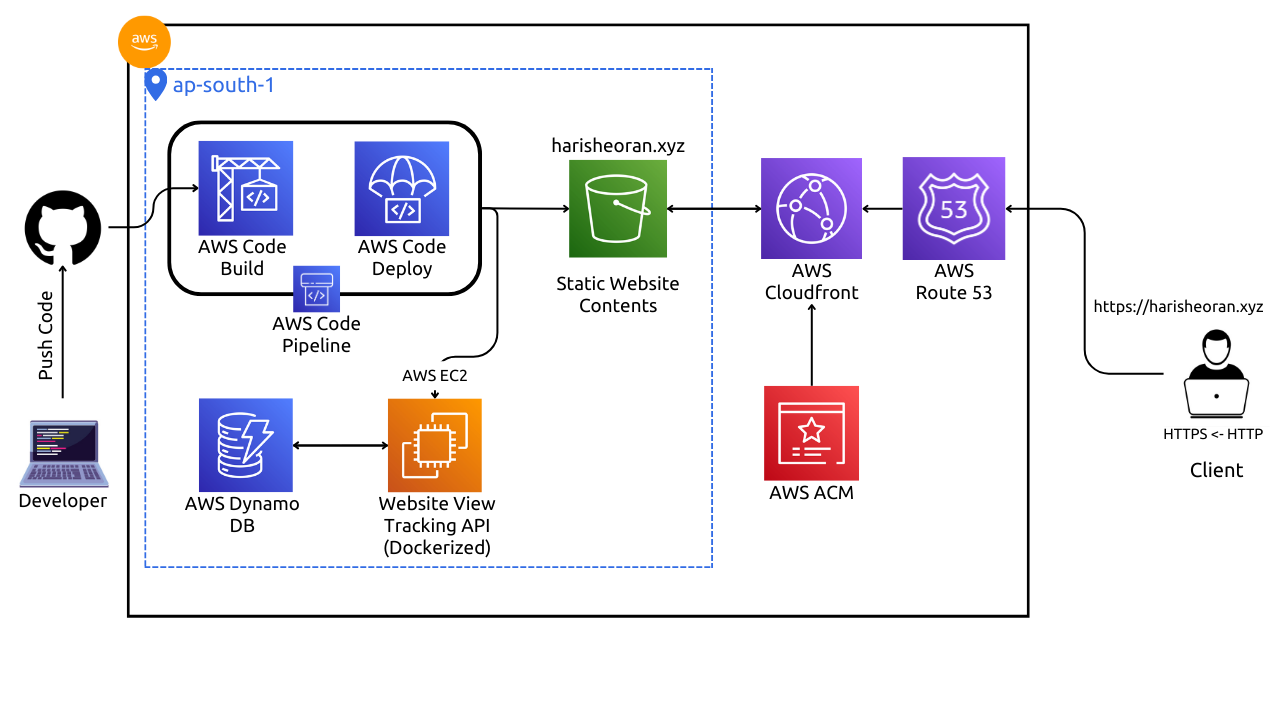
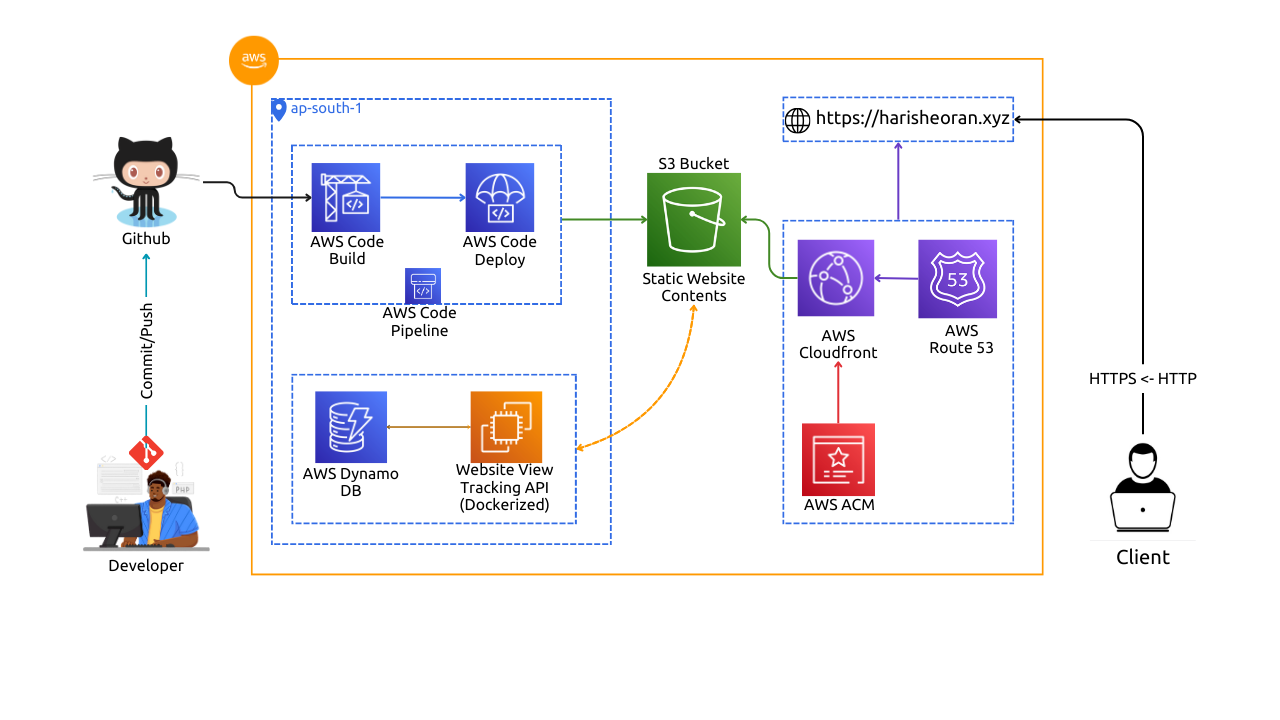
new project images

diff --git a/content/projects/containerized_nodejs_mongodb_app_deployment/index.md b/content/projects/containerized_nodejs_mongodb_app_deployment/index.md
@@ -1,21 +1,19 @@
 ---
-title: "Containerized Node.js MongoDB App Deployment on AWS"
+title: "Containerized Web App Deployment on AWS"
 date: 2023-11-20T20:54:47+01:00
 draft: false
 description: "Containerized Node.js MongoDB App Deployment on AWS"
 categories: ["DevOps"]
-tags: ["AWS","Jenkins","Ansible", "Terraform", "Docker" ,"Docker-Compose", "EC2", "S3", "Dynamo DB" ]
+tags: ["AWS","Jenkins","Ansible", "Terraform", "Nginx" ,"Docker" ,"Docker-Compose", "EC2", "S3", "Dynamo DB" ]
 ---
 
-## About application
-
-Micro Blog website for developers.
+Micro Blog website deployed on AWS
 
 ## Source Code
 {{< github repo="harisheoran/programmer-server" >}}
 
 ## Workflow
-![](featured.png)
+![](workflow1.png)
 
 ![](workflow2.png)
 
